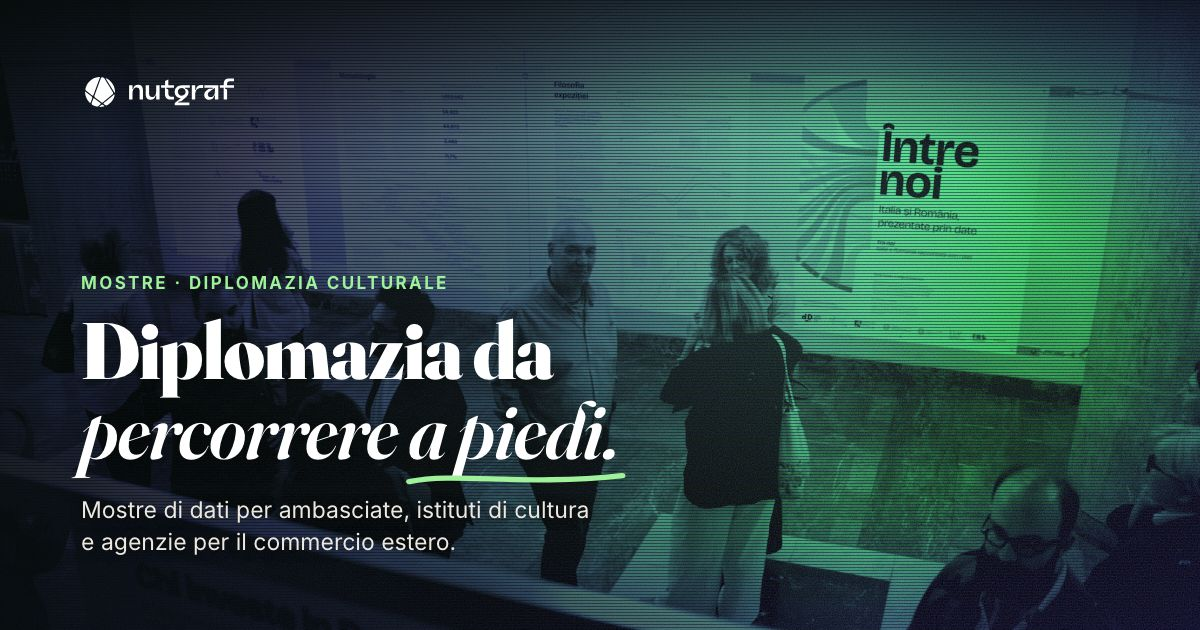
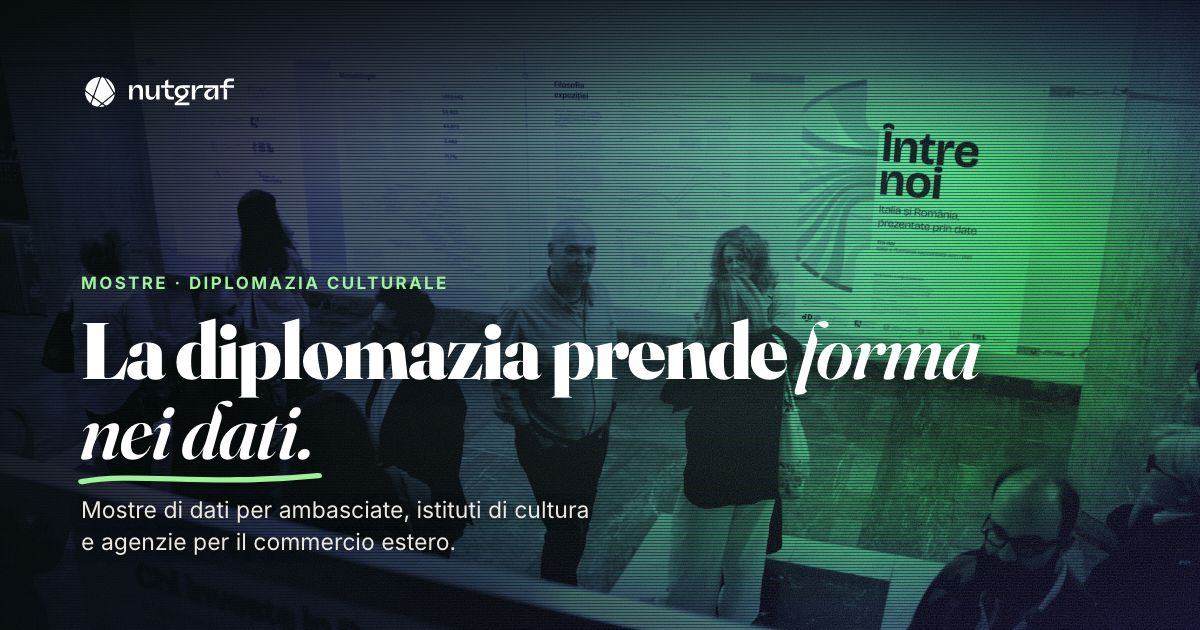
Exhibitions: "Diplomacy takes shape through data."
New opening headline on the Exhibitions page, in Italian "La diplomazia
prende forma nei dati." Share cards re-rendered in both languages with
the new line, alt text updated, ?v= bumped so previews refetch.

diff --git a/it/exhibitions/index.html b/it/exhibitions/index.html
@@ -48,10 +48,10 @@ setTimeout(function () {
 <meta property="og:title" content="Mostre di dati per la diplomazia culturale — Nutgraf">
 <meta property="og:description" content="Mostre di dati per ambasciate, istituti di cultura e agenzie per il commercio estero. Scoprite Între noi: Italia e Romania, raccontate con i dati.">
 <meta property="og:url" content="https://nutgraf.studio/it/exhibitions/">
-<meta property="og:image" content="https://nutgraf.studio/it/exhibitions/og-image.jpg?v=1">
+<meta property="og:image" content="https://nutgraf.studio/it/exhibitions/og-image.jpg?v=2">
 <meta property="og:image:width" content="1200">
 <meta property="og:image:height" content="630">
-<meta property="og:image:alt" content="Diplomazia da percorrere a piedi: visitatori tra i pannelli di dati della mostra Între noi.">
+<meta property="og:image:alt" content="La diplomazia prende forma nei dati: visitatori tra i pannelli di dati della mostra Între noi.">
 <meta property="og:locale" content="it_IT">
 <meta property="og:locale:alternate" content="en_GB">
 
@@ -59,8 +59,8 @@ setTimeout(function () {
 <meta name="twitter:card" content="summary_large_image">
 <meta name="twitter:title" content="Mostre di dati per la diplomazia culturale — Nutgraf">
 <meta name="twitter:description" content="Mostre di dati per ambasciate, istituti di cultura e agenzie per il commercio estero. Scoprite Între noi: Italia e Romania, raccontate con i dati.">
-<meta name="twitter:image" content="https://nutgraf.studio/it/exhibitions/og-image.jpg?v=1">
-<meta name="twitter:image:alt" content="Diplomazia da percorrere a piedi: visitatori tra i pannelli di dati della mostra Între noi.">
+<meta name="twitter:image" content="https://nutgraf.studio/it/exhibitions/og-image.jpg?v=2">
+<meta name="twitter:image:alt" content="La diplomazia prende forma nei dati: visitatori tra i pannelli di dati della mostra Între noi.">
 
 <!-- WebPage entity, tied to the site-wide Organization defined on the
      home page; the Între noi film is described as a VideoObject. -->
@@ -1559,9 +1559,9 @@ html:not(.js) .reveal { opacity: 1; transform: none; }
     <div>
       <span class="kicker">Mostre · Diplomazia culturale</span>
       <h1 id="hero-heading">
-        <span class="hero-line"><span>Diplomazia</span></span>
-        <span class="hero-line"><span>da <em>percorrere</em></span></span>
-        <span class="hero-line"><span><em class="fx">a piedi.<svg class="fx-underline-svg" viewBox="0 0 300 40" preserveAspectRatio="none" aria-hidden="true"><path d="M6 26 C 70 10, 160 34, 294 16"/></svg></em></span></span>
+        <span class="hero-line"><span>La diplomazia</span></span>
+        <span class="hero-line"><span>prende <em>forma</em></span></span>
+        <span class="hero-line"><span><em class="fx">nei dati.<svg class="fx-underline-svg" viewBox="0 0 300 40" preserveAspectRatio="none" aria-hidden="true"><path d="M6 26 C 70 10, 160 34, 294 16"/></svg></em></span></span>
       </h1>
       <p class="hero-sub">Progettiamo mostre di dati per ambasciate, istituti di cultura e agenzie per il commercio estero, e trasformiamo i legami tra due paesi in un racconto che il pubblico si ferma a guardare.</p>
       <div class="hero-actions">

diff --git a/exhibitions/index.html b/exhibitions/index.html
@@ -47,18 +47,18 @@ setTimeout(function () {
 <meta property="og:title" content="Data Exhibitions for Cultural Diplomacy — Nutgraf">
 <meta property="og:description" content="Data exhibitions for embassies, cultural institutes and trade agencies. See Între noi: Italy and Romania, told with data.">
 <meta property="og:url" content="https://nutgraf.studio/exhibitions/">
-<meta property="og:image" content="https://nutgraf.studio/exhibitions/og-image.jpg?v=2">
+<meta property="og:image" content="https://nutgraf.studio/exhibitions/og-image.jpg?v=3">
 <meta property="og:image:width" content="1200">
 <meta property="og:image:height" content="630">
-<meta property="og:image:alt" content="Diplomacy you can walk through: visitors among the data panels of the Între noi exhibition.">
+<meta property="og:image:alt" content="Diplomacy takes shape through data: visitors among the data panels of the Între noi exhibition.">
 <meta property="og:locale" content="en_GB">
 
 <!-- Twitter Card -->
 <meta name="twitter:card" content="summary_large_image">
 <meta name="twitter:title" content="Data Exhibitions for Cultural Diplomacy — Nutgraf">
 <meta name="twitter:description" content="Data exhibitions for embassies, cultural institutes and trade agencies. See Între noi: Italy and Romania, told with data.">
-<meta name="twitter:image" content="https://nutgraf.studio/exhibitions/og-image.jpg?v=2">
-<meta name="twitter:image:alt" content="Diplomacy you can walk through: visitors among the data panels of the Între noi exhibition.">
+<meta name="twitter:image" content="https://nutgraf.studio/exhibitions/og-image.jpg?v=3">
+<meta name="twitter:image:alt" content="Diplomacy takes shape through data: visitors among the data panels of the Între noi exhibition.">
 
 <!-- WebPage entity, tied to the site-wide Organization defined on the
      home page; the Între noi film is described as a VideoObject. -->
@@ -1552,8 +1552,8 @@ html:not(.js) .reveal { opacity: 1; transform: none; }
       <span class="kicker">Exhibitions · Cultural diplomacy</span>
       <h1 id="hero-heading">
         <span class="hero-line"><span>Diplomacy</span></span>
-        <span class="hero-line"><span>you can <em>walk</em></span></span>
-        <span class="hero-line"><span><em class="fx">through.<svg class="fx-underline-svg" viewBox="0 0 300 40" preserveAspectRatio="none" aria-hidden="true"><path d="M6 26 C 70 10, 160 34, 294 16"/></svg></em></span></span>
+        <span class="hero-line"><span>takes <em>shape</em></span></span>
+        <span class="hero-line"><span><em class="fx">through data.<svg class="fx-underline-svg" viewBox="0 0 300 40" preserveAspectRatio="none" aria-hidden="true"><path d="M6 26 C 70 10, 160 34, 294 16"/></svg></em></span></span>
       </h1>
       <p class="hero-sub">We design data exhibitions for embassies, cultural institutes and trade agencies, turning the ties between two countries into a show the public stops for.</p>
       <div class="hero-actions">

diff --git a/scripts/it/og/cards.html b/scripts/it/og/cards.html
@@ -149,10 +149,10 @@ var COPY = {
   },
   exhibitions: {
     en: { kicker: 'Exhibitions · Cultural diplomacy',
-          h1: 'Diplomacy you can<br><em>walk ' + fx('through.') + '</em>',
+          h1: 'Diplomacy takes <em>shape</em><br><em>' + fx('through data.') + '</em>',
           sub: 'Data exhibitions for embassies, cultural institutes<br>and trade agencies.' },
     it: { kicker: 'Mostre · Diplomazia culturale',
-          h1: 'Diplomazia da<br><em>percorrere ' + fx('a piedi.') + '</em>',
+          h1: 'La diplomazia prende <em>forma</em><br><em>' + fx('nei dati.') + '</em>',
           sub: 'Mostre di dati per ambasciate, istituti di cultura<br>e agenzie per il commercio estero.' }
   },
   reports: {
